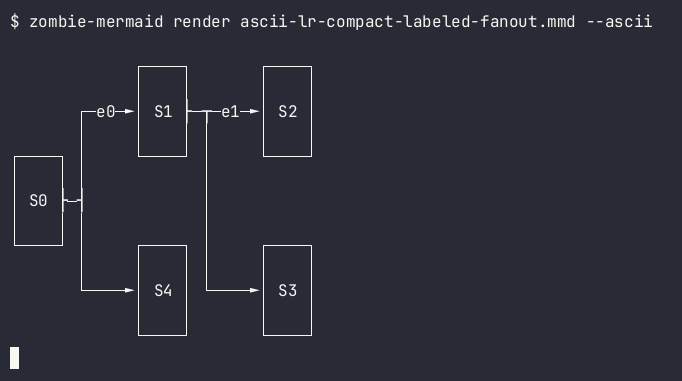
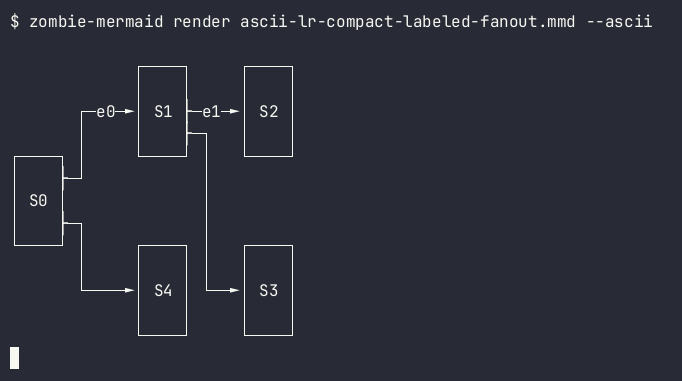
fix(ascii): an LR fan-out leaves the right face on a row per edge, no shared stem
Part of #2619. Edges out of one right face no longer merge into a single
trunk: a target above takes the row above centre, a level one the centre,
a lower one the row below, so S1->S3 is no longer a branch of e1's run and
dotted/thick edges no longer share a stem.

diff --git a/packages/ascii-renderer/src/port-offsets.ts b/packages/ascii-renderer/src/port-offsets.ts
@@ -31,6 +31,7 @@
 import type { AsciiEdge, AsciiGraph, AsciiNode, GridCoord } from './types.ts'
 import { gridToDrawingCoord, lineToDrawing } from './grid.ts'
 import type { DrawingCoord } from './types.ts'
+import { requireGridCoord } from './types.ts'
 import { isPortFixedEdge } from './edge-cell-styles.ts'
 import { clusterLaneEndShift } from './cluster-boundary.ts'
 import { runsAlong, segmentsOf } from './grid-occupancy.ts'
@@ -347,6 +348,43 @@ export function staggerFanOuts(
       for (const m of bent) out.set(m.edge, offsetOf(keyOf(m)))
     }
   }
+}
+
+/**
+ * An LR fan-out leaves the source's right face on a row of its own per edge,
+ * as Mermaid does: a target above takes the row above the centre, one level
+ * with the source keeps the centre, one below takes the row below. A shared
+ * stem would read as one edge splitting, and could not carry two line styles.
+ * Returns false (leaving the stems to `staggerFanOuts`) when two targets lie
+ * the same side or the face has no room.
+ */
+// ponytail: one row per side, so a source with two targets above keeps the shared stem.
+function spreadRightFan(
+  graph: AsciiGraph,
+  members: readonly FanOutMember[],
+  out: Map<AsciiEdge, number>,
+): boolean {
+  if (
+    members.some((m) => m.run.side !== 'right') ||
+    !members.some((m) =>
+      leavesRightFace(graph, m.edge, graph.config.graphDirection),
+    )
+  ) {
+    return false
+  }
+  const rowOf = (m: FanOutMember): number =>
+    Math.sign(requireGridCoord(m.edge.to).y - requireGridCoord(m.edge.from).y)
+  const rows = members.map(rowOf)
+  const geo = portGeometry(graph, members[0]!.run)
+  if (
+    new Set(rows).size !== rows.length ||
+    !geo ||
+    !rows.every((o) => attachesAt(members[0]!.run, geo.centre + o, geo))
+  ) {
+    return false
+  }
+  members.forEach((m, i) => out.set(m.edge, rows[i]!))
+  return true
 }
 
 export interface Slot {
@@ -666,7 +704,9 @@ function computePortShifts(graph: AsciiGraph): Map<AsciiEdge, PortShift> {
     const taken = [...slots.keys()]
       .filter((k) => k !== key && portOf(k) === port)
       .map(slotOffset)
-    staggerFanOuts(graph, members, slotOffset(key), taken, staggered)
+    if (!spreadRightFan(graph, members, staggered)) {
+      staggerFanOuts(graph, members, slotOffset(key), taken, staggered)
+    }
   }
 
   const split = splitLabeledArrivals(runs)

diff --git a/packages/ascii-renderer/src/__tests__/ascii-fan-in-then-fan-out-upstream-63.test.ts b/packages/ascii-renderer/src/__tests__/ascii-fan-in-then-fan-out-upstream-63.test.ts
@@ -31,9 +31,9 @@ describe('upstream #63: LR fan-in then fan-out keeps C->E off B->C corridor', ()
       '│ A │           ┌──►│ D │',
       '│   │           │   │   │',
       '└─┬─┘     ┌───┐ │   └───┘',
-      '  │       │   │ │',
-      '  ├──────►│ C ├─┤',
-      '  │       │   │ │',
+      '  │       │   ├─┘',
+      '  ├──────►│ C │',
+      '  │       │   ├─┐',
       '┌─┴─┐     └───┘ │   ┌───┐',
       '│   │           │   │   │',
       '│ B │           └──►│ E │',
@@ -59,9 +59,9 @@ describe('upstream #63: LR fan-in then fan-out keeps C->E off B->C corridor', ()
       '| A |           +-->| D |',
       '|   |           |   |   |',
       '+-+-+     +---+ |   +---+',
-      '  |       |   | |',
-      '  +------>| C +-+',
-      '  |       |   | |',
+      '  |       |   +-+',
+      '  +------>| C |',
+      '  |       |   +-+',
       '+-+-+     +---+ |   +---+',
       '|   |           |   |   |',
       '| B |           +-->| E |',

diff --git a/src/__tests__/ascii-bundled-bidirectional-start-head-1457.test.ts b/src/__tests__/ascii-bundled-bidirectional-start-head-1457.test.ts
@@ -34,10 +34,12 @@ describe('bundled bidirectional start heads (#1457)', () => {
     expect(lr).toContain('│ B │◄─┐')
     expect(lr).toContain('│ C │◄─┼─►│ A │')
     const rl = renderMermaidASCII(`graph RL\n${fanOut}`)
-    // A's three edges leave its left face and share one stem (as in
-    // Mermaid), with the head one cell outside each target's border.
+    // A's three edges leave its left face on a row each (as in Mermaid),
+    // with the head one cell outside each target's border.
     expect(rl).toContain('│ B │◄──┐')
-    expect(rl).toContain('│ C │◄──┼►│ A │')
+    expect(rl).toContain('│ C │◄───►│ A │')
+    expect(rl).toContain('└►│')
+    expect(rl).toContain('┌►│')
     expect(rl).toContain('│ D │◄──┘')
   })
 })

diff --git a/packages/ascii-renderer/src/__tests__/ascii-flow-face-fan-out.test.ts b/packages/ascii-renderer/src/__tests__/ascii-flow-face-fan-out.test.ts
@@ -76,7 +76,11 @@ describe('flow-face fan-out (LR)', () => {
   S1 --> |e1| S2
   S1 --> S3
   S0 --> S4`).join('\n')
-    expect(out).toMatch(/│ S0 ├─/)
+    // A row of S0's right face per target, and S1 -> S3 apart from e1's run.
+    expect(out).toMatch(/│ {4}├─┘/)
+    expect(out).toMatch(/│ {4}├─┐/)
+    expect(out).toMatch(/│ S1 ├─e1─►│ S2/)
+    expect(out).toMatch(/│ {4}├─┐ {3}│/)
     expect(out).toMatch(/┌─e0─►│ S1/)
     expect(out).toMatch(/└─+►│ S4/)
     expect(out).toMatch(/└────┘ +│/)

diff --git a/packages/ascii-renderer/src/__tests__/ascii-decision-lr-right-face-2351.test.ts b/packages/ascii-renderer/src/__tests__/ascii-decision-lr-right-face-2351.test.ts
@@ -138,9 +138,9 @@ describe('LR decision node branches leave the right face (#2351)', () => {
         '      ┌──►│ B │',
         '      │   │   │',
         '┌───┐ │   └───┘',
-        '│   │ │',
-        '│ A ├─┤',
-        '│   │ │',
+        '│   ├─┘',
+        '│ A │',
+        '│   ├─┐',
         '└───┘ │   ┌───┐',
         '      │   │   │',
         '      └──►│ C │',

diff --git a/packages/ascii-renderer/src/draw-arrows.ts b/packages/ascii-renderer/src/draw-arrows.ts
@@ -1452,6 +1452,7 @@ function comfortableOnRun(
   // A fan-out's bend sits just after the source: keep a blank cell between it
   // and the label, as Mermaid draws the label mid-run.
   if (
+    edge.path.length === 4 &&
     leavesRightFace(graph, edge, graph.config.graphDirection) &&
     placement[0]!.x - Math.min(line[0]!.x, line[1]!.x) < 2
   ) {
